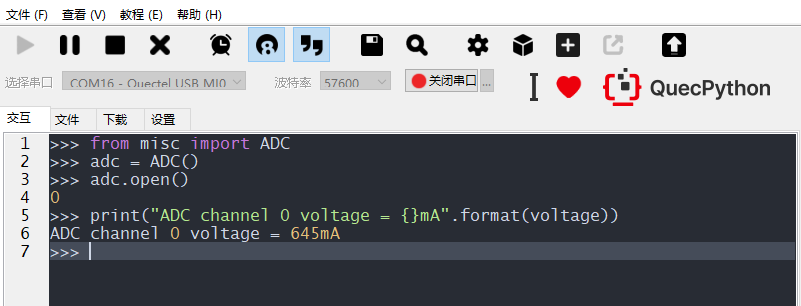
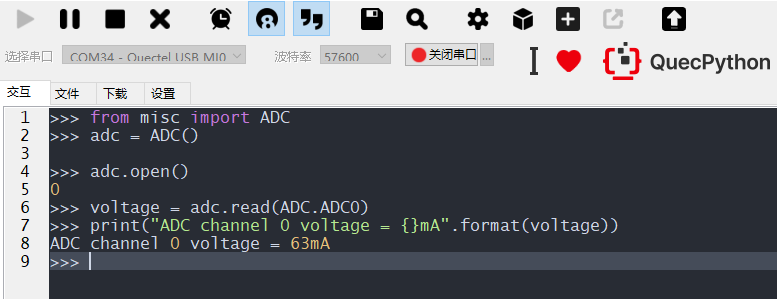
docs (无影响): 新增BSP_ADC和BSP_PWM两篇文档
新官网初版文档提交

固件版本: N/A

是否需要文案翻译: 是

diff --git a/docs/development_guide/zh/BSP应用开发/BSP-PWM应用开发.md b/docs/development_guide/zh/BSP应用开发/BSP-PWM应用开发.md
@@ -1,0 +1,55 @@
+# BSP-PWM应用开发
+
+## 什么是PWM
+
+[PWM](https://baike.baidu.com/item/脉冲宽度调制/10813756?fromtitle=PWM&fromid=3034961&fr=aladdin)代表脉冲宽度调制（Pulse Width Modulation），是一种常见的电子信号调制技术。它通过改变信号的脉冲宽度来控制电路或设备的输出功率或速度。PWM信号是一个周期性的信号，包含一个固定频率的基准信号和一个可变的占空比信号。占空比指的是脉冲宽度与周期之间的比率，它控制着信号的平均电平，从而控制电路或设备的输出功率或速度。
+
+PWM技术在电子工程、控制系统和机械工程等领域得到广泛应用。例如，在电机控制中，PWM信号可以用来控制电机的转速和转向。在电源管理中，PWM信号可以用来调节直流-直流转换器的输出电压和电流。在LED灯控制中，PWM信号可以用来控制LED的亮度和颜色。
+
+需要注意的是，在使用PWM技术时，需要选择适当的频率和占空比，以满足具体应用的需求。同时，还需要考虑PWM信号的稳定性和噪声等因素，以确保电路或设备的正常运行和可靠性。
+
+## 怎么使用PWM
+
+使用PWM技术需要通过特定的电路或芯片来生成PWM信号，支持QuecPython开发的模组大部分都具有此功能，具体可见[PWM功能API文档](../../API_reference/zh/QuecPython类库/PWM.html)确认是否支持此功能，可以按照以下步骤进行：
+
+### 硬件设计
+
+根据上述[PWM功能API文档](../../API_reference/zh/QuecPython类库/machine.PWM.html)介绍的引脚号和模组的硬件设计文档(从[下载区](/download/)获取)设计好硬件电路即可。设计硬件电路注意需要注意电平转换，以及电平转换电路的最大输出频率。
+
+如模组本身不支持或支持的数量不够用，则可以使用模组支持的任意一个[GPIO](../../API_reference/zh/QuecPython类库/machine.Pin.html)结合[定时器](../../API_reference/zh/QuecPython类库/machine.Timer.html)来粗略模拟输出PWM信号,硬件设计相同，软件实现可见下文。
+
+### 软件应用
+
+当使用模组自带PWM功能时：
+
+```python
+>>>from misc import PWM
+>>>pwm = PWM(PWM.PWM0, PWM.ABOVE_MS, 1, 5)
+>>>pwm.open()
+```
+
+当自行模拟PWM功能时需要注意QuecPython对于时序控制并不是很精确，请自行根据需求实现相关代码。
+
+### PWM功能测试
+
+在命令行中执行上面三行代码即可让模组的PWM0引脚输出一个周期为5ms，占空比为20%的方波，借助[逻辑分析仪](https://baike.baidu.com/item/逻辑分析仪/2364388?fr=aladdin)我们可以看到输出的波形。交互界面及逻辑分析仪获取到的波形如下图。
+
+<img src="../media/BSP应用开发/BSP_PWM_0.png" style="border-style: solid; border-radius: 10px; color:  #f1f1f1;" border=3 alt="">
+
+<img src="../media/BSP应用开发/BSP_PWM_1.png" style="border-style: solid; border-radius: 10px; color:  #f1f1f1;" border=3 alt="">
+
+如上图所示，填写的参数和实际抓取到的波形是能够对应上的，有关API具体参数含义可以仔细阅读API介绍文档进行理解。
+
+对于QuecPython的PWM API需要注意的是，填的参数不能超出填写范围，否则将会出现报错，这是常见问题。
+
+一般使用PWM功能主要步骤是：
+
+1. 设置PWM参数：根据具体应用需求，设置PWM信号的频率和占空比等参数。频率决定信号的周期，占空比决定信号的平均电平和电路或设备的输出功率或速度。对于QuecPython API，则需要填写高电平时间和周期来决定占空比和频率。即占空比=高电平时间/周期，频率=1秒/周期(单位：秒)。
+2. 连接PWM输出：将PWM信号的输出端口连接到需要控制的电路或设备，如电机、LED等。通常需要使用适当的电路元件，如电容、电感、MOSFET或三极管等，来控制PWM信号的幅值和波形。
+3. 调试和优化：根据实际情况，调试PWM电路或程序，以确保PWM信号的稳定性和准确性。可以通过示波器、数字万用表等仪器来监测PWM信号的波形和电平等参数，进行优化和调整。
+
+需要注意的是，在使用PWM技术时，需要根据具体应用需求选择合适的PWM芯片或电路，即选择合适的模组，并合理设置参数和连接电路。同时，还需要注意PWM信号的稳定性、可靠性和噪声等因素，以确保电路或设备的正常运行和安全性。
+
+### PWM功能应用实例
+
+- 暂无。

diff --git a/docs/development_guide/zh/BSP应用开发/BSP-ADC应用开发.md b/docs/development_guide/zh/BSP应用开发/BSP-ADC应用开发.md
@@ -10,29 +10,29 @@ ADC(Analog to Digital Converter)即模拟数字转换器即[A/D转换器](https:
 
 对于嵌入式产品开发来说，可靠的硬件电路是软件开发的前提条件。
 
-ADC相关电路设计需要参考每个型号模组的硬件设计手册和参考设计手册，可以在主页的[下载区](/download/)检索下载，但具体功能引脚仍需以QuecPython的[ADC功能API](/../../API_reference/zh/QuecPython类库/machine.ADC.html)介绍的引脚号为准。关于ADC功能常见的应用电路也可以通过搜素引擎了解更多信息。简单应用电路也可参考QuecPython的学习开发板，开发板可以通过天猫旗舰店、京东旗舰店等移远通信官方销售渠道获取，开发板的硬件设计同样是参考的上述硬件文档，开发板的原理图也可以在主页的[下载区](/download/)检索下载。
+ADC相关电路设计需要参考每个型号模组的硬件设计手册和参考设计手册，可以在主页的[下载区](/download/)检索下载，但具体功能引脚仍需以QuecPython的[ADC功能API](../../API_reference/zh/QuecPython类库/machine.ADC.html)介绍的引脚号为准。关于ADC功能常见的应用电路也可以通过搜素引擎了解更多信息。简单应用电路也可参考QuecPython的学习开发板，开发板可以通过天猫旗舰店、京东旗舰店等移远通信官方销售渠道获取，开发板的硬件设计同样是参考的上述硬件文档，开发板的原理图也可以在主页的[下载区](/download/)检索下载。
 
 ### 软件应用
 
-使用QuecPython开发的模组，想要读取ADC引脚的电压需要先完成QuecPython开发环境的搭建，再参考[ADC功能的API介绍文档](/../../API_reference/zh/QuecPython类库/machine.ADC.html)进行如下命令行测试即可打印出ADC通道0引脚当前的电压值，单位为毫安(mA)。
+使用QuecPython开发的模组，想要读取ADC引脚的电压需要先完成QuecPython开发环境的搭建，再参考[ADC功能的API介绍文档](../../API_reference/zh/QuecPython类库/machine.ADC.html)进行如下命令行测试即可打印出ADC通道0引脚当前的电压值，单位为毫安(mA)。
 
 ```python
-from misc import ADC
-adc = ADC()
-adc.open()
-voltage = adc.read(ADC.ADC0) 
-print("ADC channel 0 voltage = {}mA".format(voltage))
+>>>from misc import ADC
+>>>adc = ADC()
+>>>adc.open()
+>>>voltage = adc.read(ADC.ADC0) 
+>>>print("ADC channel 0 voltage = {}mA".format(voltage))
 ```
 
 ## ADC功能测试
 
 使用QPYcom工具和模组进行交互，下面实例是基于ADC0。
 
-![](../media/BSP应用开发/BSP_ADC_0.png)
+<img src="../media/BSP应用开发/BSP_ADC_0.png" style="border-style: solid; border-radius: 10px; color:  #f1f1f1;" border=3 alt="">
 
 ## ADC功能应用实例
 
-[读取环境光照强度](../外设应用开发/外设-亮度传感器应用开发.html)
+- [读取环境光照强度](../外设应用开发/外设-亮度传感器应用开发.html)
 
-[读取环境温度值](../外设应用开发/外设-温度传感器应用开发.html)
+- [读取环境温度值](../外设应用开发/外设-温度传感器应用开发.html)
 
